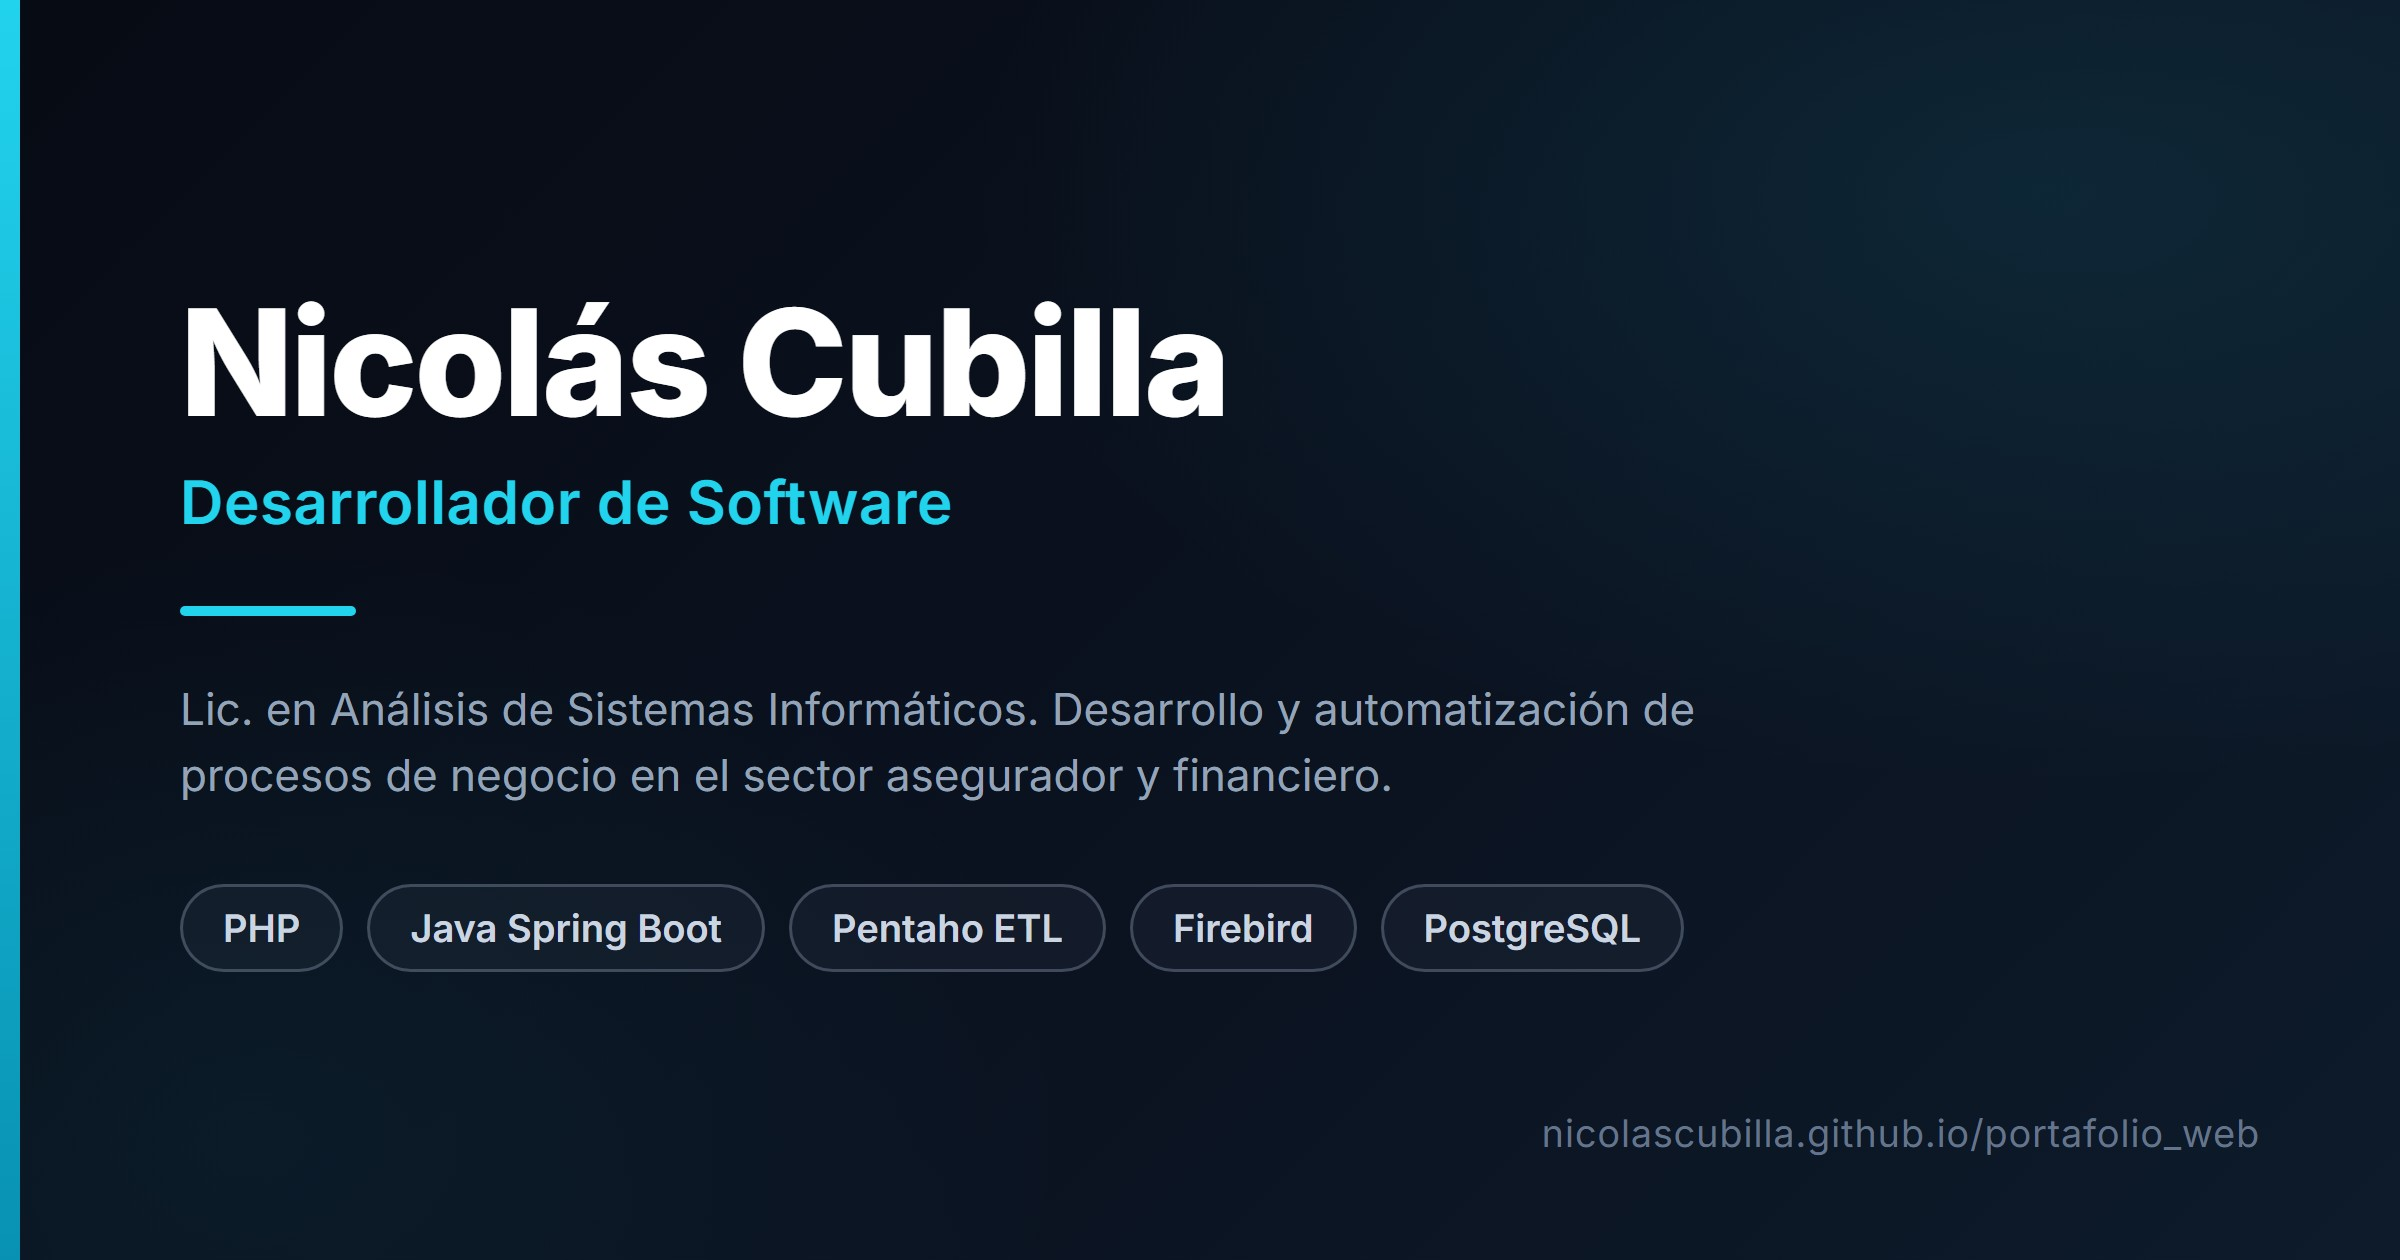
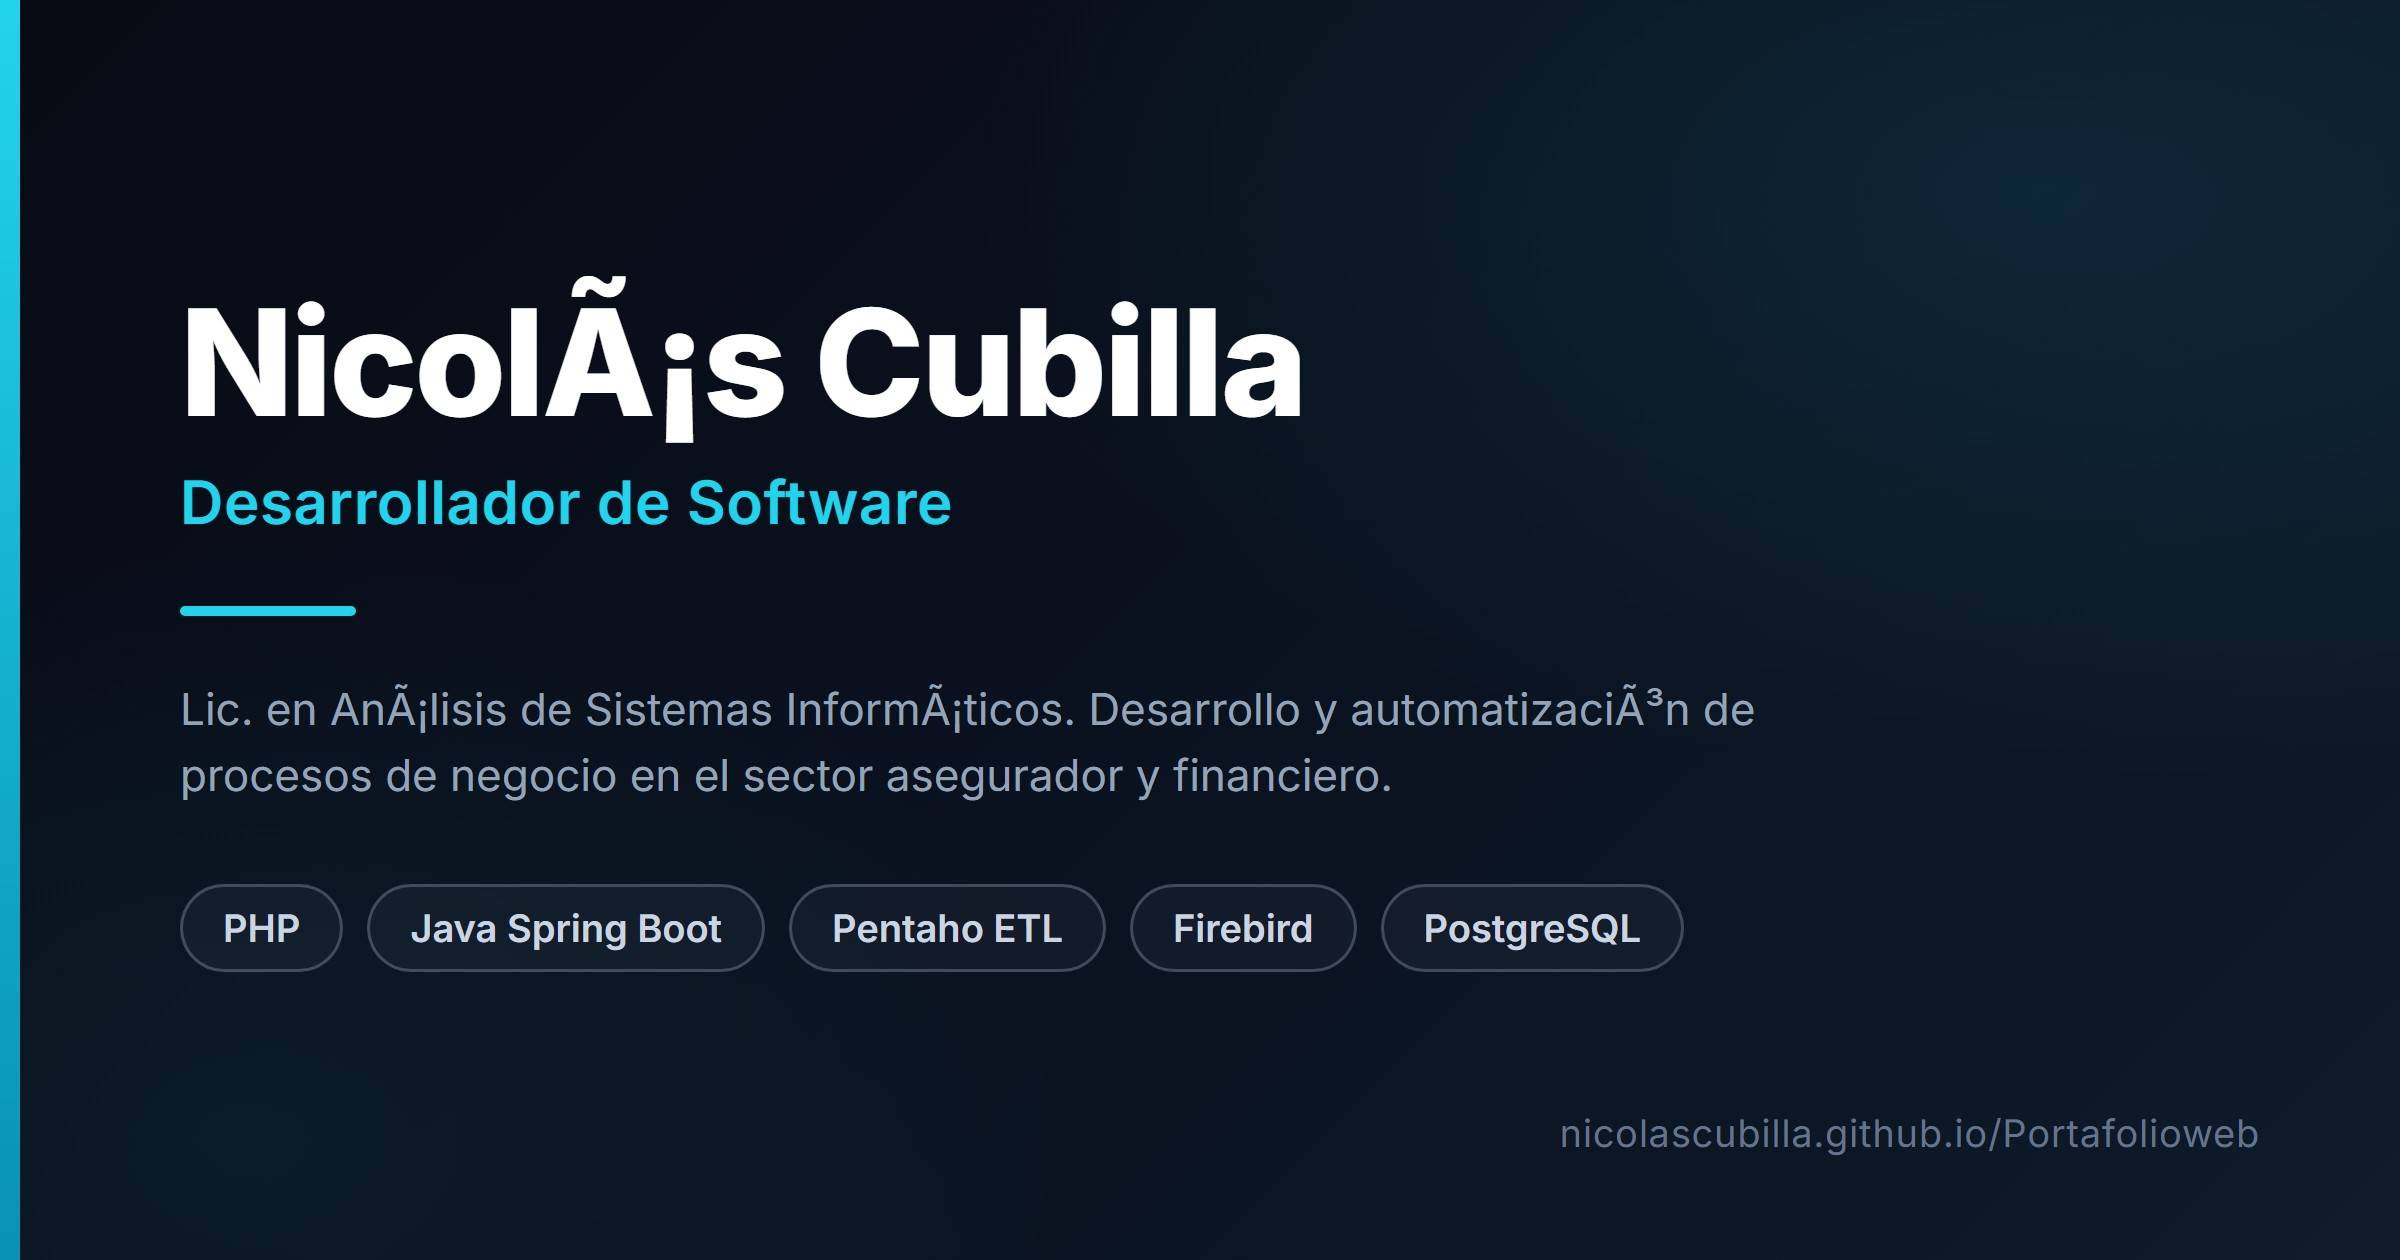
Apuntar las URLs al repositorio Portafolioweb
El canonical, og:url y la imagen social apuntaban a portafolio_web, el
repositorio anterior. Se corrigen a la URL real del sitio publicado.

Changed region(s): [[0.2188, 0.2167, 0.5625, 0.3405], [0.1562, 0.5262, 0.75, 0.5881], [0.6562, 0.8667, 0.9062, 0.9286]]

diff --git a/index.html b/index.html
@@ -9,14 +9,14 @@
 <meta name="author" content="Nicolás Cubilla">
 <meta name="keywords" content="Nicolás Cubilla, desarrollador de software, PHP, Laravel, Java, Spring Boot, Delphi, Firebird 3.0, Pentaho ETL, PostgreSQL, desarrollador Paraguay, análisis de sistemas">
 <meta name="theme-color" content="#070b14">
-<link rel="canonical" href="https://nicolascubilla.github.io/portafolio_web/">
+<link rel="canonical" href="https://nicolascubilla.github.io/Portafolioweb/">
 
 <meta property="og:type" content="website">
 <meta property="og:locale" content="es_PY">
-<meta property="og:url" content="https://nicolascubilla.github.io/portafolio_web/">
+<meta property="og:url" content="https://nicolascubilla.github.io/Portafolioweb/">
 <meta property="og:title" content="Nicolás Cubilla — Desarrollador de Software">
 <meta property="og:description" content="Lic. en Análisis de Sistemas Informáticos. Desarrollo en PHP, Delphi, Java Spring Boot, Pentaho ETL y Firebird 3.0 en el sector asegurador y financiero.">
-<meta property="og:image" content="https://nicolascubilla.github.io/portafolio_web/img/og-cover.jpg">
+<meta property="og:image" content="https://nicolascubilla.github.io/Portafolioweb/img/og-cover.jpg">
 <meta property="og:image:width" content="1200">
 <meta property="og:image:height" content="630">
 <meta name="twitter:card" content="summary_large_image">

diff --git a/README.md b/README.md
@@ -2,7 +2,7 @@
 
 Desarrollador de Software. Licenciado en Análisis de Sistemas Informáticos.
 
-**Sitio publicado en:** https://nicolascubilla.github.io/portafolio_web/
+**Sitio publicado en:** https://nicolascubilla.github.io/Portafolioweb/
 
 ## Contenido
 
